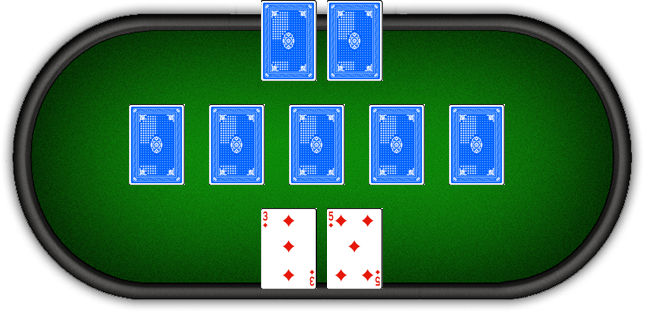
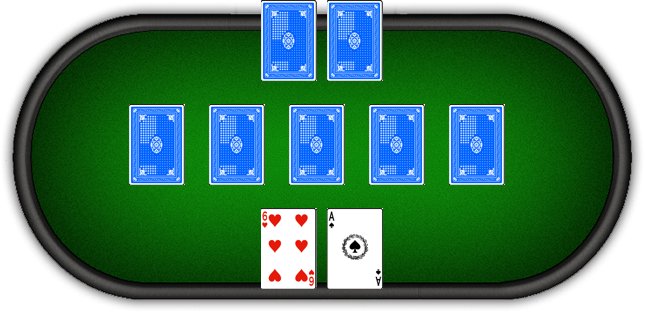
client and server connected to do game logic

Changed region(s): [[0.4031, 0.6635, 0.5891, 0.9231], [0.5271, 0.75, 0.5891, 0.8365]]

diff --git a/poker_client/client.py b/poker_client/client.py
@@ -6,23 +6,35 @@ from PyQt6.QtGui import QPixmap, QImage
 from PyQt6.QtWidgets import QMainWindow, QLabel, QApplication
 from poker_client import Ui_MainWindow
 from PyQt6 import QtCore
-from card import Card, suits
+from card import Card, suits, Suit, to_suits, State
 from PyQt6.QtNetwork import QTcpSocket
+
+
+def string_from_byte(n):
+    return str(n.data())[2:-1]
 
 
 def make_table(my_cards, deck):
     image = Image.open("./img/poker_table.png")
-    first, second = my_cards
-    card1 = Image.open(f"./img/deck/{suits[first.suit]}/card_{first.value}.png")
-    card2 = Image.open(f"./img/deck/{suits[second.suit]}/card_{second.value}.png")
+
     unknown = Image.open("./img/unknown.png")
     card_width, card_height = unknown.size
-    x, y = image.size
-    image.paste(card1, ((x // 2) - card_width - 5, (y // 6) * 4))
-    image.paste(card2, ((x // 2) + 5, (y // 6) * 4))
 
+    x, y = image.size
+
+    if len(my_cards):
+        first, second = my_cards
+        card1 = Image.open(f"./img/deck/{suits[first.suit]}/card_{first.value}.png")
+        card2 = Image.open(f"./img/deck/{suits[second.suit]}/card_{second.value}.png")
+        image.paste(card1, ((x // 2) - card_width - 5, (y // 6) * 4))
+        image.paste(card2, ((x // 2) + 5, (y // 6) * 4))
+    else:
+        image.paste(unknown, ((x // 2) - card_width - 5, (y // 6) * 4))
+        image.paste(unknown, ((x // 2) + 5, (y // 6) * 4))
     image.paste(unknown, ((x // 2) - card_width - 5, 0))
     image.paste(unknown, ((x // 2) + 5, 0))
+
+
 
     cards = len(deck)
 
@@ -41,44 +53,105 @@ class PokerApp(QMainWindow, Ui_MainWindow):
         super().__init__()
         self.setupUi(self)
         self.deck = []
-        self.hand = [Card("Diamonds", 4), Card("Diamonds", 6)]
+        self.hand = []
         self.socket = QTcpSocket(self)
         self.socket.connected.connect(self.on_connected)
         self.socket.readyRead.connect(self.on_ready_read)
         self.socket.connectToHost("127.0.0.1", 50051)
+        self.name = ""
+        self.balance = 0
+        self.opp = State.No
 
+    def set_name(self, name):
+        self.name = name
+
+    def set_cards(self, data):
+        self.hand = [Card(to_suits[data[0]["suit"]], data[0]["value"]), Card(to_suits[data[1]["suit"]], data[1]["value"])]
+
+    def set_community_cards(self, data):
+        pass
 
     def on_ready_read(self):
         msg = self.sender().readAll()
-        data = json.loads(msg)
-        #TODO handle commands
+        print(string_from_byte(msg))
+        coms = json.loads(string_from_byte(msg))
+        print(coms)
+        for data in coms:
+            if data["command"] == "set_name":
+                self.set_name(data["name"])
+            elif data["command"] == "set_cards":
+                self.set_cards(data["cards"])
+            elif data["command"] == "set_balance":
+                self.balance = int(data["value"])
+            elif data["command"] == "set_community_cards":
+                self.set_community_cards(data)
+            elif data["command"] == "set_opp":
+                if data["state"] == "Call":
+                    self.opp = State.Call
+                self.enable_buttons()
 
         self.update_background()
 
     def on_connected(self):
         print("smthing")
-        self.socket.write(str.encode("slafdf;a"))
 
     @QtCore.pyqtSlot()
     def on_pass_button_clicked(self):
-        print("button clicked")
+        msg = {}
+        msg["name"] = self.name
+        msg["command"] = "Pass"
+        self.write(json.dumps([msg]))
         self.update_background()
+        self.disable_buttons()
+
+
+    def enable_buttons(self):
+        self.raise_button.setDisabled(False)
+        self.check_button.setDisabled(False)
+        self.call_button.setDisabled(False)
+        self.pass_button.setDisabled(False)
+
+
+    def disable_buttons(self):
+        self.raise_button.setDisabled(True)
+        self.check_button.setDisabled(True)
+        self.call_button.setDisabled(True)
+        self.pass_button.setDisabled(True)
 
     @QtCore.pyqtSlot()
     def on_check_button_clicked(self):
+        msg = {}
+        msg["name"] = self.name
+        msg["command"] = "Check"
+        self.write(json.dumps([msg]))
         print("check clicked")
+        self.disable_buttons()
 
     @QtCore.pyqtSlot()
     def on_raise_button_clicked(self):
+        msg = {}
+        msg["name"] = self.name
+        msg["command"] = "Check"
+        msg["value"] = self.slider_value
+        self.write(json.dumps([msg]))
         print(f"raise {self.slider_value} clicked")
+        self.disable_buttons()
 
     @QtCore.pyqtSlot()
     def on_call_button_clicked(self):
+        msg = {}
+        msg["name"] = self.name
+        msg["command"] = "Call"
+        self.write(json.dumps([msg]))
         print("call clicked")
+        self.disable_buttons()
 
     def update_background(self):
         make_table(self.hand, self.deck)
         self.table_pixmap.setPixmap(QPixmap.fromImage(QImage("./img/current_table.png")))
+
+    def write(self, text):
+        self.socket.write(str.encode(text))
 
 
 if __name__ == "__main__":

diff --git a/poker_server/server.py b/poker_server/server.py
@@ -9,6 +9,10 @@ from poker_table import PokerTable
 from card import suits
 
 
+def string_from_byte(n):
+    return str(n.data())[2:-1]
+
+
 class Session(QObject):
     def set_socket(self, socket):
         self.socket = socket
@@ -41,19 +45,11 @@ class Server(QObject):
                 self.client1.set_socket(self.server.nextPendingConnection())
                 self.client1.socket.disconnected.connect(self.on_disconnected)
                 self.client1.socket.readyRead.connect(self.on_ready_read)
-                msg = {}
-                msg["command"] = "set_name"
-                msg["name"] = "player_1"
-                self.client1.write(json.dumps(msg))
             else:
                 self.client2 = Session(self)
                 self.client2.set_socket(self.server.nextPendingConnection())
                 self.client2.socket.disconnected.connect(self.on_disconnected)
                 self.client2.socket.readyRead.connect(self.on_ready_read)
-                msg = {}
-                msg["command"] = "set_name"
-                msg["name"] = "player_2"
-                self.client2.write(json.dumps(msg))
             if (self.client1 is not None) and (self.client2 is not None):
                 self.start_game()
 
@@ -66,20 +62,30 @@ class Server(QObject):
 
     def meet_player(self, num):
         if num == 1:
+            print("meet 1")
             data = {}
-            data["command"] = "set_cards"
             c1 = {}
             c1["suit"] = suits[self.poker_table.cards1[0].suit]
             c1["value"] = self.poker_table.cards1[0].value
             c2 = {}
             c2["suit"] = suits[self.poker_table.cards1[1].suit]
             c2["value"] = self.poker_table.cards1[1].value
-
+            data["command"] = "set_cards"
             data["cards"] = [c1, c2]
-            msg = json.dumps(data)
+
+            data2 = {}
+            data2["command"] = "set_balance"
+            data2["value"] = self.poker_table.balance1
+
+            data3 = {}
+            data3["command"] = "set_name"
+            data3["name"] = "player_1"
+
+            msg = json.dumps([data3, data, data2])
             print(msg)
             self.client1.write(msg)
         else:
+            print("meet 2")
             data = {}
             c1 = {}
             c1["suit"] = suits[self.poker_table.cards2[0].suit]
@@ -88,19 +94,71 @@ class Server(QObject):
             c2["suit"] = suits[self.poker_table.cards2[1].suit]
             c2["value"] = self.poker_table.cards2[1].value
 
+            data["command"] = "set_cards"
             data["cards"] = [c1, c2]
-            msg = json.dumps(data)
+
+            data2 = {}
+            data2["command"] = "set_balance"
+            data2["value"] = self.poker_table.balance2
+
+            data3 = {}
+            data3["command"] = "set_name"
+            data3["name"] = "player_2"
+
+            msg = json.dumps([data3, data, data2])
             print(msg)
             self.client2.write(msg)
 
 
+    def pass_option(self, msg):
+        if msg["name"] == "player_1":
+            self.poker_table.first_pass()
+        else:
+            self.poker_table.second_pass()
 
+
+    def check_option(self, msg):
+        if msg["name"] == "player_1":
+            self.poker_table.first_check()
+        else:
+            self.poker_table.second_check()
+
+    def raise_option(self, msg):
+        if msg["name"] == "player_1":
+            self.poker_table.first_raise(int(msg["value"]))
+        else:
+            self.poker_table.second_raise(int(msg["value"]))
+
+    def call_option(self, msg):
+        if msg["name"] == "player_1":
+            self.poker_table.first_call()
+            data = {}
+            data["command"] = "set_opp"
+            data["state"] = "Call"
+            print("from 1 to 2")
+            self.client2.write(json.dumps([data]))
+        else:
+            self.poker_table.second_call()
+            data = {}
+            data["command"] = "set_opp"
+            data["state"] = "Call"
+            print("from 2 to 1")
+            self.client1.write(json.dumps([data]))
 
     def on_ready_read(self):
         msg = self.sender().readAll()
-        data = json.load(msg)
-        if data["command"] == "":
-            pass #TODO handle commands
+        print(string_from_byte(msg))
+        coms = json.loads(string_from_byte(msg))
+        print(coms)
+        for data in coms:
+            if data["command"] == "Pass":
+                self.pass_option(data)
+            elif data["command"] == "Check":
+                self.check_option(data)
+            elif data["command"] == "Raise":
+                self.raise_option(data)
+            elif data["command"] == "Call":
+                self.call_option(data)
 
 
 

diff --git a/poker_client/card.py b/poker_client/card.py
@@ -2,6 +2,13 @@ from enum import Enum
 from random import choice
 
 
+class State(Enum):
+    No = 0
+    Check = 1
+    Call = 2
+    Raise = 3
+    Pass = 4
+
 class Suit(Enum):
     Spears = 0
     Spades = 1
@@ -10,7 +17,7 @@ class Suit(Enum):
 
 
 suits = {Suit.Spades: "Spades", Suit.Spears: "Spears", Suit.Hearts: "Hearts", Suit.Diamonds: "Diamonds"}
-
+to_suits = {"Spades": Suit.Spades, "Spears": Suit.Spears, "Hearts": Suit.Hearts, "Diamonds": Suit.Diamonds}
 
 class Deck:
     def __init__(self):

diff --git a/poker_client/poker_client.py b/poker_client/poker_client.py
@@ -60,6 +60,7 @@ class Ui_MainWindow(object):
 
     def valueChanged(self, value):
         self.slider_value = value
+        self.label.setText(f"Amount to raise: {self.slider_value}")
 
     def retranslateUi(self, MainWindow):
         _translate = QtCore.QCoreApplication.translate

diff --git a/poker_server/card.py b/poker_server/card.py
@@ -10,6 +10,7 @@ class Suit(Enum):
 
 
 suits = {Suit.Spades: "Spades", Suit.Spears: "Spears", Suit.Hearts: "Hearts", Suit.Diamonds: "Diamonds"}
+to_suits = {"Spades": Suit.Spades, "Spears": Suit.Spears, "Hearts": Suit.Hearts, "Diamonds": Suit.Diamonds}
 
 
 class Deck:

diff --git a/poker_client/img/parse_img.py b/poker_client/img/parse_img.py
@@ -11,7 +11,7 @@ card_height = 1216 // 5
 print(card_width, card_height)
 card_count = 1
 for row in range(4):
-    for col in range(14):
+    for col in range(15):
         left = col * card_width
         upper = row * card_height
         right = left + card_width
